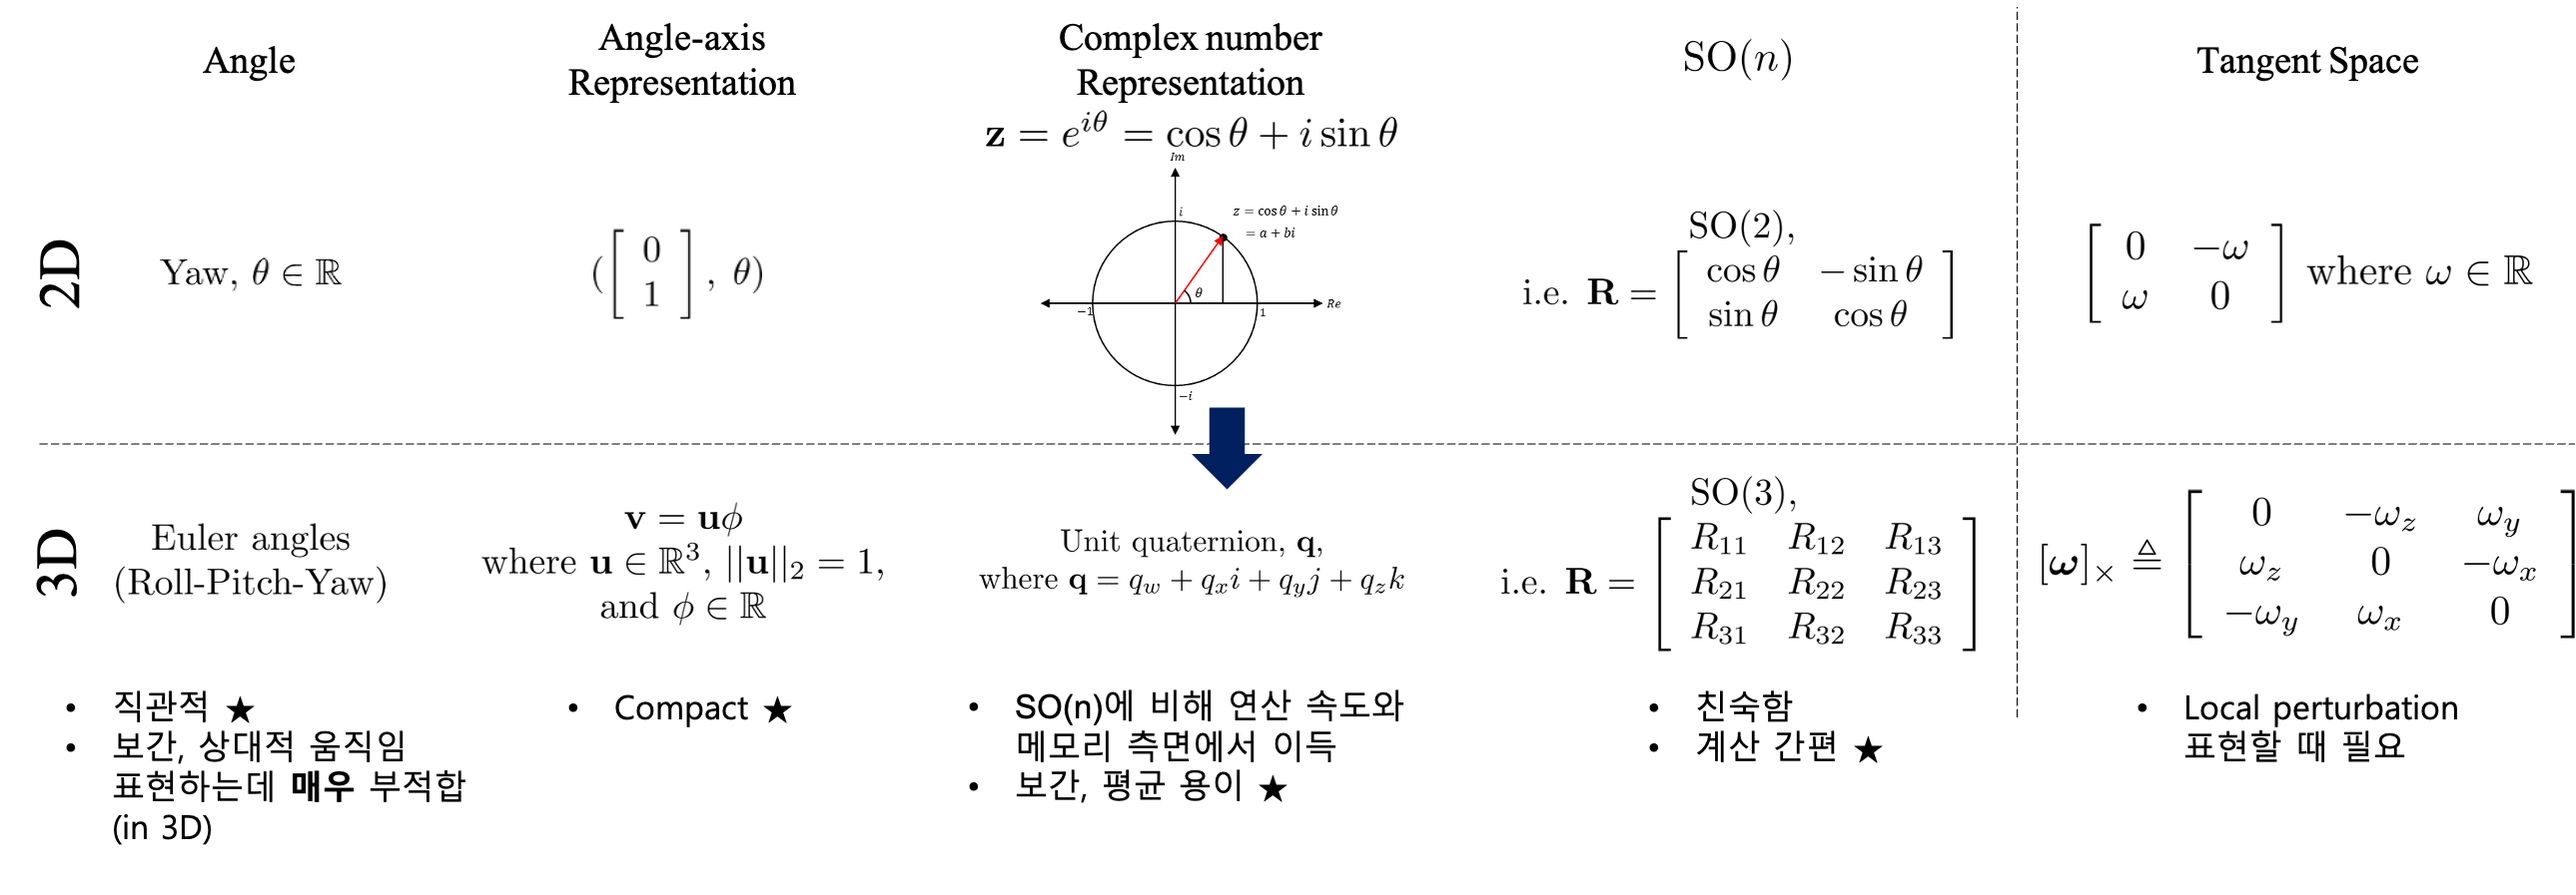
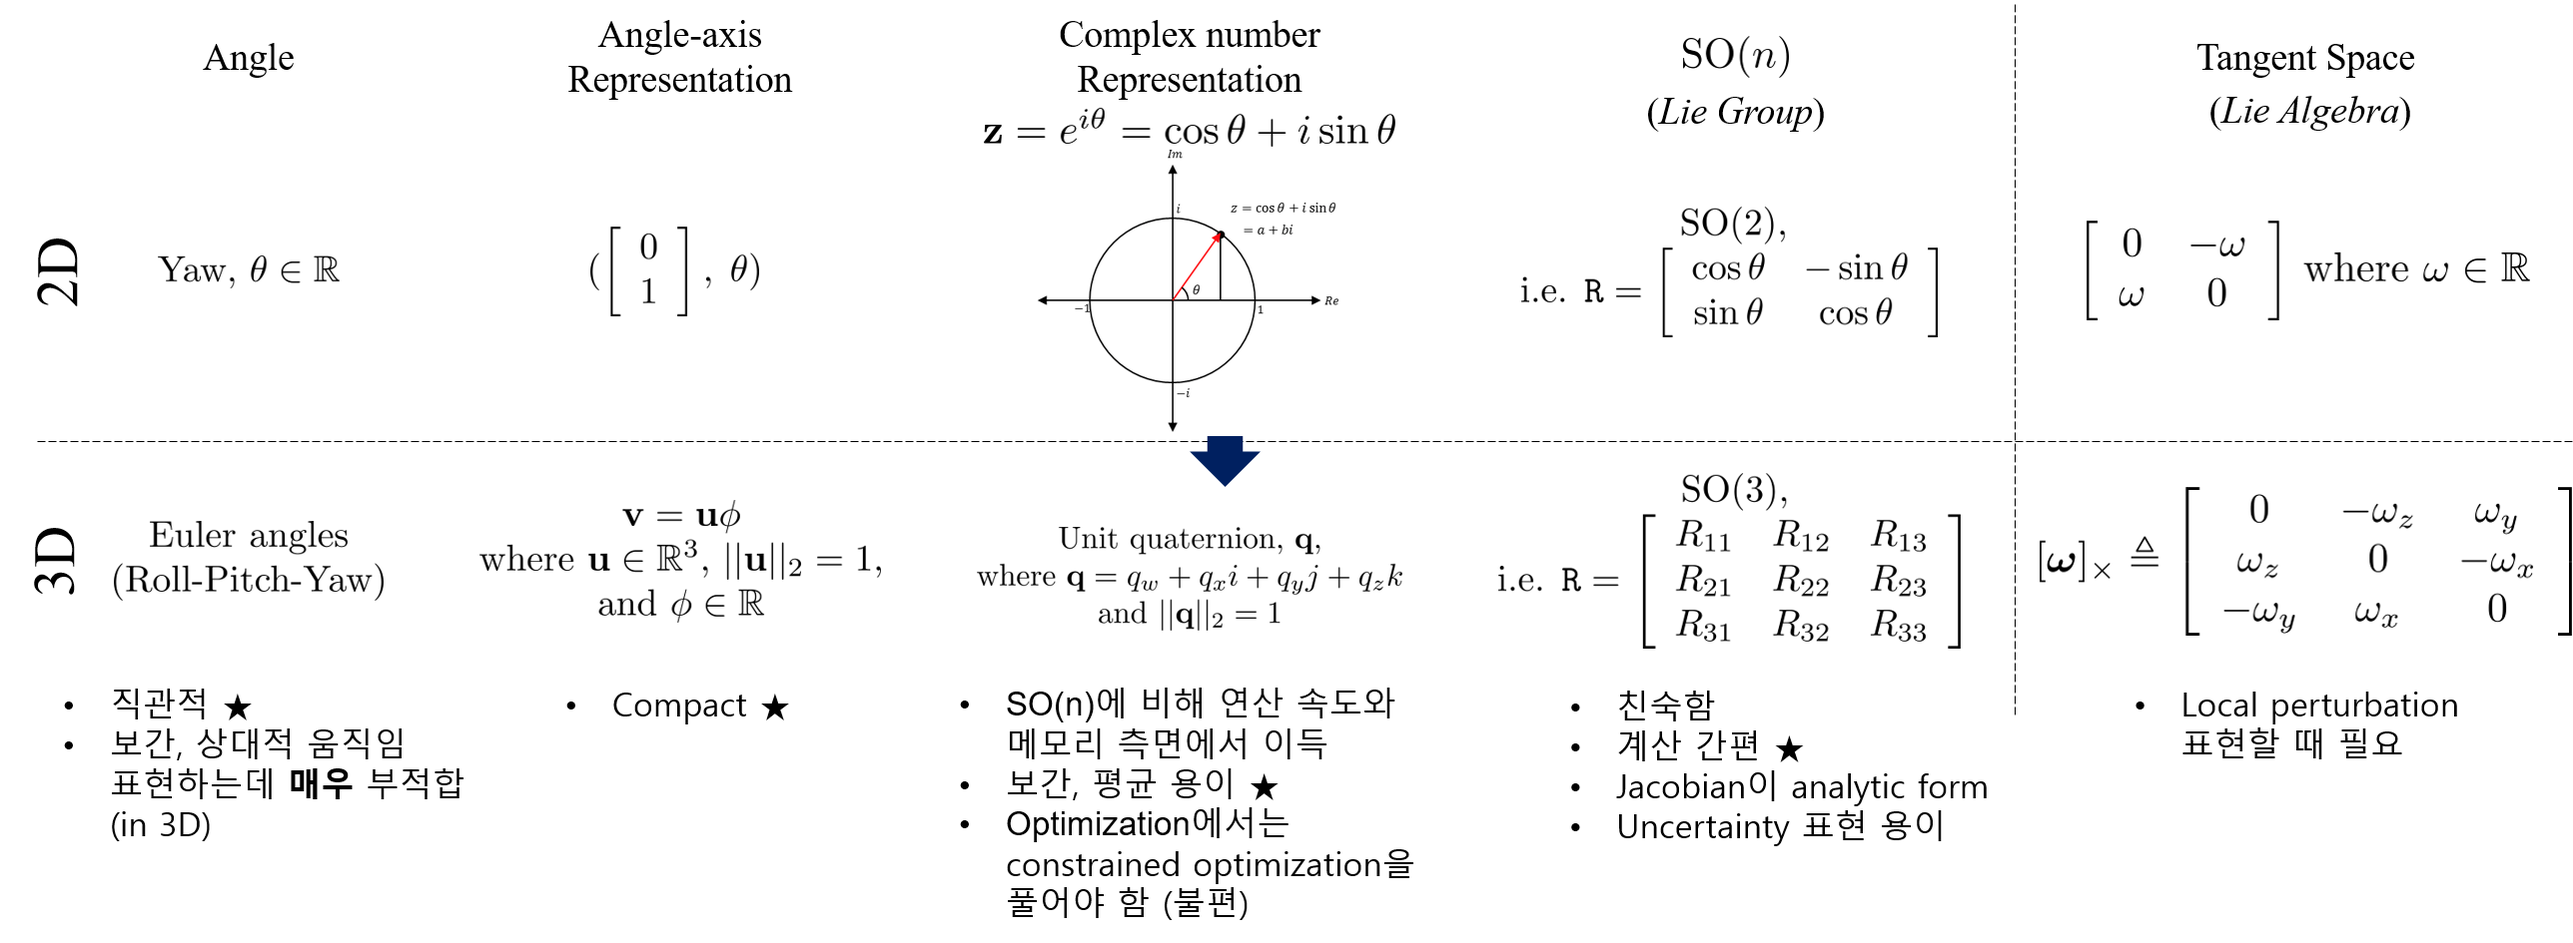
cm

diff --git a/_posts/2022-04-01-IMU Preintegration (Easy) - 2. Preliminaries (1) Keyframe copy.md b/_posts/2022-04-01-IMU Preintegration (Easy) - 2. Preliminaries (1) Keyframe copy.md
@@ -1,0 +1,205 @@
+---
+layout: post
+title: IMU Preintegration (Easy) - 2. Preliminaries (1) Keyframe
+subtitle: Why is the IMU Preintegration important
+tags: [SLAM, LIO, VIO, IMU, Preintegration]
+comments: true
+
+---
+
+# Definition of Keyframe
+
+먼저 preintegration을 이해하기 전에 아래의 사전 지식을 필요로 하기에, 간략히 설명한다.
+
+
+## Keyframe 
+
+먼저 keyframe에 대한 이해가 필요로 한다. keyframe은 말그대로 중요한 (key) frame을 뜻하는데, 여기서 "중요하다"는 말은 주어진 두 frame 사이에 relative pose를 추정할 때 주변 환경의 기하학적 특성을 잘 묘사할 수 있는 reliable & repeatable features가 풍부하다는 것을 의미한다. 
+
+ keyframe을 선정하는 주된 이유는 사용하는 sesnor의 모든 data를 전부 사용하여 SLAM을 하려 하면 많은 메모리를 필요로 하기 때문이라고 생각한다. 예를 들자면, LiDAR sensor는 대부분 10 Hz로, camera sensor의 같은 경우에는 주로 30 Hz로 데이터가 취득된다. 그런데 LiDAR sensor를 활용해서 큰 도심 환경을 매핑하기 위해 약 1시간 가량 데이터를 취득했다고 가정하면, 1시간 동안 약 36,000개의 frame을 얻게 된다. 그런데 각 frame은 또 10만 여개의 points로 구성되어 있는데 (64 채널 기준. Velodyne HDL 64E의 경우 약 130,000 여개의 points를 매 frame마다 획득함), 이 raw range를 (x, y, z) format으로 파싱하면 각 point 당 3개의 float을 필요로 하게 된다. 그러면 어림잡아도 36,000 * 130,000 * 3 * 4하게 되면 약 56 GB 정도의 메모리가 필요하게 된다. 
+
+ 따라서 이러한 문제를 해결하기 위해서 대부분의 SLAM 알고리즘들에서는 a) 이전 keyframe 기준 로봇이 어느 정도 이상 움직였거나 b) 이전 keyframe 기준 어느 정도 시간이 흘렀을 경우 다음 keyframe을 생성하고 있다. 코드의 예시는 아래와 같다 (코드 내의 주석으로 case (a)와 case (b) 표기해 둠).
+
+ **In LIO-SAM**
+
+
+ ```cpp
+ bool saveFrame()
+{
+    if (cloudKeyPoses3D->points.empty())
+        return true;
+
+    if (sensor == SensorType::LIVOX)
+    {
+        if (timeLaserInfoCur - cloudKeyPoses6D->back().time > 1.0)
+            return true;
+    }
+
+    Eigen::Affine3f transStart = pclPointToAffine3f(cloudKeyPoses6D->back());
+    Eigen::Affine3f transFinal = pcl::getTransformation(transformTobeMapped[3], transformTobeMapped[4], transformTobeMapped[5], 
+                                                        transformTobeMapped[0], transformTobeMapped[1], transformTobeMapped[2]);
+    Eigen::Affine3f transBetween = transStart.inverse() * transFinal;
+    float x, y, z, roll, pitch, yaw;
+    pcl::getTranslationAndEulerAngles(transBetween, x, y, z, roll, pitch, yaw);
+    // - - - - - - - - - - - - - - - - - - - - - - -
+    // HERE!!!! An example of the case (a)
+    // Check the magnitude of the relative movement
+    // - - - - - - - - - - - - - - - - - - - - - - -
+    if (abs(roll)  < surroundingkeyframeAddingAngleThreshold &&
+        abs(pitch) < surroundingkeyframeAddingAngleThreshold && 
+        abs(yaw)   < surroundingkeyframeAddingAngleThreshold &&
+        sqrt(x*x + y*y + z*z) < surroundingkeyframeAddingDistThreshold)
+        return false;
+
+    return true;
+}
+ ```
+
+```cpp
+void laserCloudInfoHandler(const lio_sam::cloud_infoConstPtr& msgIn)
+{
+    // extract time stamp
+    timeLaserInfoStamp = msgIn->header.stamp;
+    timeLaserInfoCur = msgIn->header.stamp.toSec();
+
+    // extract info and feature cloud
+    cloudInfo = *msgIn;
+    pcl::fromROSMsg(msgIn->cloud_corner,  *laserCloudCornerLast);
+    pcl::fromROSMsg(msgIn->cloud_surface, *laserCloudSurfLast);
+
+    std::lock_guard<std::mutex> lock(mtx);
+    // - - - - - - - - - - - - - - - - - - 
+    // HERE!!!! An example of the case (b)
+    // - - - - - - - - - - - - - - - - - - 
+    static double timeLastProcessing = -1;
+    if (timeLaserInfoCur - timeLastProcessing >= mappingProcessInterval)
+    {
+        timeLastProcessing = timeLaserInfoCur;
+
+        updateInitialGuess();
+
+        extractSurroundingKeyFrames();
+
+        downsampleCurrentScan();
+
+        scan2MapOptimization();
+
+        saveKeyFramesAndFactor();
+
+        correctPoses();
+
+        publishOdometry();
+
+        publishFrames();
+    }
+}
+
+```
+
+**In VINS-Mono** (`process()` function in `pose_graph_node.cpp` )
+
+```cpp
+Vector3d T = Vector3d(pose_msg->pose.pose.position.x,
+                        pose_msg->pose.pose.position.y,
+                        pose_msg->pose.pose.position.z);
+Matrix3d R = Quaterniond(pose_msg->pose.pose.orientation.w,
+                            pose_msg->pose.pose.orientation.x,
+                            pose_msg->pose.pose.orientation.y,
+                            pose_msg->pose.pose.orientation.z).toRotationMatrix();
+// - - - - - - - - - - - - - - - - - - - - - - -
+// HERE!!!! An example of the case (a)
+// Check the magnitude of the relative translation
+// - - - - - - - - - - - - - - - - - - - - - - -
+if((T - last_t).norm() > SKIP_DIS)
+{
+    vector<cv::Point3f> point_3d; 
+    vector<cv::Point2f> point_2d_uv; 
+    vector<cv::Point2f> point_2d_normal;
+    vector<double> point_id;
+
+    for (unsigned int i = 0; i < point_msg->points.size(); i++)
+    {
+        cv::Point3f p_3d;
+        p_3d.x = point_msg->points[i].x;
+        p_3d.y = point_msg->points[i].y;
+        p_3d.z = point_msg->points[i].z;
+        point_3d.push_back(p_3d);
+
+        cv::Point2f p_2d_uv, p_2d_normal;
+        double p_id;
+        p_2d_normal.x = point_msg->channels[i].values[0];
+        p_2d_normal.y = point_msg->channels[i].values[1];
+        p_2d_uv.x = point_msg->channels[i].values[2];
+        p_2d_uv.y = point_msg->channels[i].values[3];
+        p_id = point_msg->channels[i].values[4];
+        point_2d_normal.push_back(p_2d_normal);
+        point_2d_uv.push_back(p_2d_uv);
+        point_id.push_back(p_id);
+
+        //printf("u %f, v %f \n", p_2d_uv.x, p_2d_uv.y);
+    }
+
+    KeyFrame* keyframe = new KeyFrame(pose_msg->header.stamp.toSec(), frame_index, T, R, image,
+                        point_3d, point_2d_uv, point_2d_normal, point_id, sequence);   
+    m_process.lock();
+    start_flag = 1;
+    posegraph.addKeyFrame(keyframe, 1);
+    m_process.unlock();
+    frame_index++;
+    last_t = T;
+}
+```
+
+```cpp
+// - - - - - - - - - - - - - - - - - - 
+// HERE!!!! An example of the case (b)
+// - - - - - - - - - - - - - - - - - - 
+if (skip_cnt < SKIP_CNT)
+{
+    skip_cnt++;
+    continue;
+}
+else
+{
+    skip_cnt = 0;
+}
+```
+
+
+따라서 keyframe은 아래의 그림과 같이 sensor로 매번 취득되는 frame 중에서 어느 정도의 간격을 두고 선별된다. 이 논문에서는 인접한 두 keyframe을 i, j로 표기하고 있다. 따라서 preintegration의 문제 정의는 "두 keyframe 사이의 수십~수백여개의 IMU data (아래의 x 표시)를 어떻게 하나의 factor (아래의 파란 ■)로 표현할 수 있는가"로 정리된다.
+
+
+![](/img/preintegration/keyframe.png)
+
+
+
+
+## Quaternion vs SO(3)
+
+![](/img/preintegration/dt_equation.png)
+
+![](/img/preintegration/physical_meaning.png)
+
+![](/img/preintegration/preinteg_rot.png)
+
+![](/img/preintegration/preinteg_vel.png)
+
+![](/img/preintegration/preinteg_pos.png)
+
+![](/img/preintegration/rel_motion_increments.png)
+
+
+---
+
+IMU Preintegration Derivation 설명 시리즈입니다.
+
+TBU
+---
+
+
+### 원 논문
+
+* [Foster *et al.*, "IMU Preintegration on Manifold for Efficient
+Visual-Inertial Maximum-a-Posteriori Estimation," in *Robotics: Science and Systems (RSS), 2011](http://www.roboticsproceedings.org/rss11/p06.pdf).
+* [Foster *et al.*, "On-Manifold Preintegration for Real-Time
+Visual-Inertial Odometry," *Transaction on Robotics*, 2016](https://rpg.ifi.uzh.ch/docs/TRO16_forster.pdf)

diff --git a/_posts/2022-04-01-IMU Preintegration (Easy) - 2. Preliminaries (2) 3D Rotation and Uncertainty.md b/_posts/2022-04-01-IMU Preintegration (Easy) - 2. Preliminaries (2) 3D Rotation and Uncertainty.md
@@ -1,24 +1,21 @@
 ---
 layout: post
-title: IMU Preintegration Derivation - 3. Preintegrated Measurements
+title: IMU Preintegration (Easy) - 2. Preliminaries (2) 3D Rotation and Uncertainty
 subtitle: Why is the IMU Preintegration important
-tags: [SLAM, LiDAR, Pointcloud, ROS, IMU, Preintegration]
+tags: [SLAM, LIO, VIO, IMU, Preintegration]
 comments: true
 
 ---
 
-# Preliminaries of IMU Preintegration (작성 중)
+# Preliminaries of IMU Preintegration 
 
-먼저 preintegration을 
+원 논문의 이름이 "On-Manifold Preintegration for Real-Time
+Visual-Inertial Odometry"인만큼, 사실 
+먼저 preintegration을 이해하기 위해서는 manifold의 이해를 필요로 한다.
 
+특히 3
 
-
-## Keyframe 
-
-## Quaternion vs SO(3)
-
-
-
+![](/img/rotation/overview.png)
 
 
 ---

diff --git a/_posts/2022-04-01-IMU Preintegration (Easy) - 3. Preintegrated Measurements.md b/_posts/2022-04-01-IMU Preintegration (Easy) - 3. Preintegrated Measurements.md
@@ -1,8 +1,8 @@
 ---
 layout: post
-title: IMU Preintegration Derivation - 2. Preliminaries
+title: IMU Preintegration Derivation - 3. Preintegrated Measurements
 subtitle: Why is the IMU Preintegration important
-tags: [SLAM, LiDAR, Pointcloud, ROS, IMU, Preintegration]
+tags: [SLAM, LIO, VIO, IMU, Preintegration]
 comments: true
 
 ---
@@ -11,9 +11,6 @@ comments: true
 
 먼저 preintegration을 
 
-
-
-## Keyframe 
 
 ## Quaternion vs SO(3)
 
@@ -28,6 +25,8 @@ comments: true
 ![](/img/preintegration/preinteg_pos.png)
 
 ![](/img/preintegration/rel_motion_increments.png)
+
+
 
 
 ---
